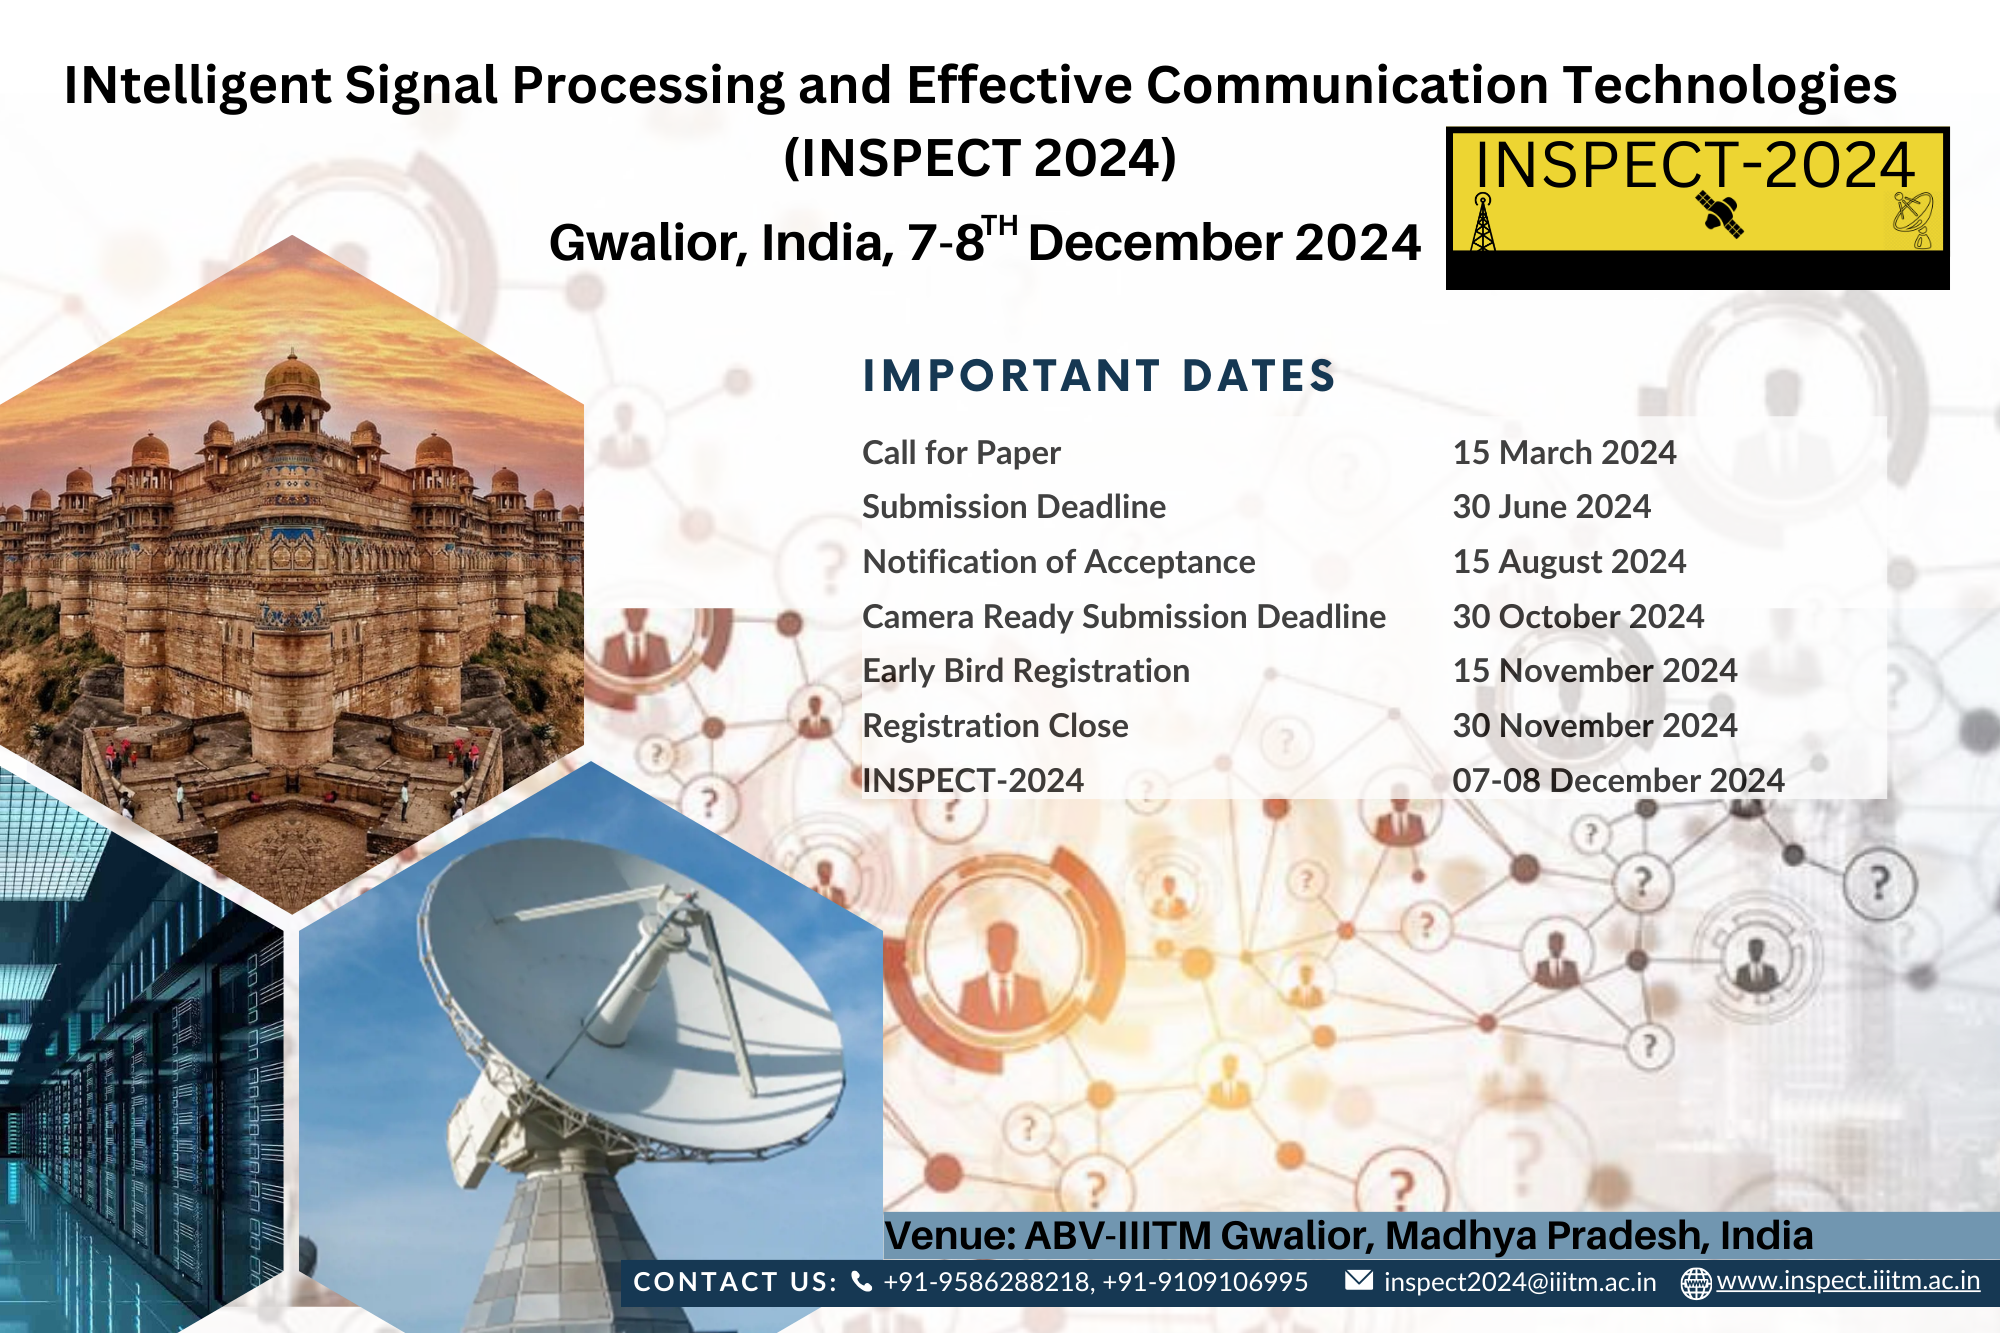
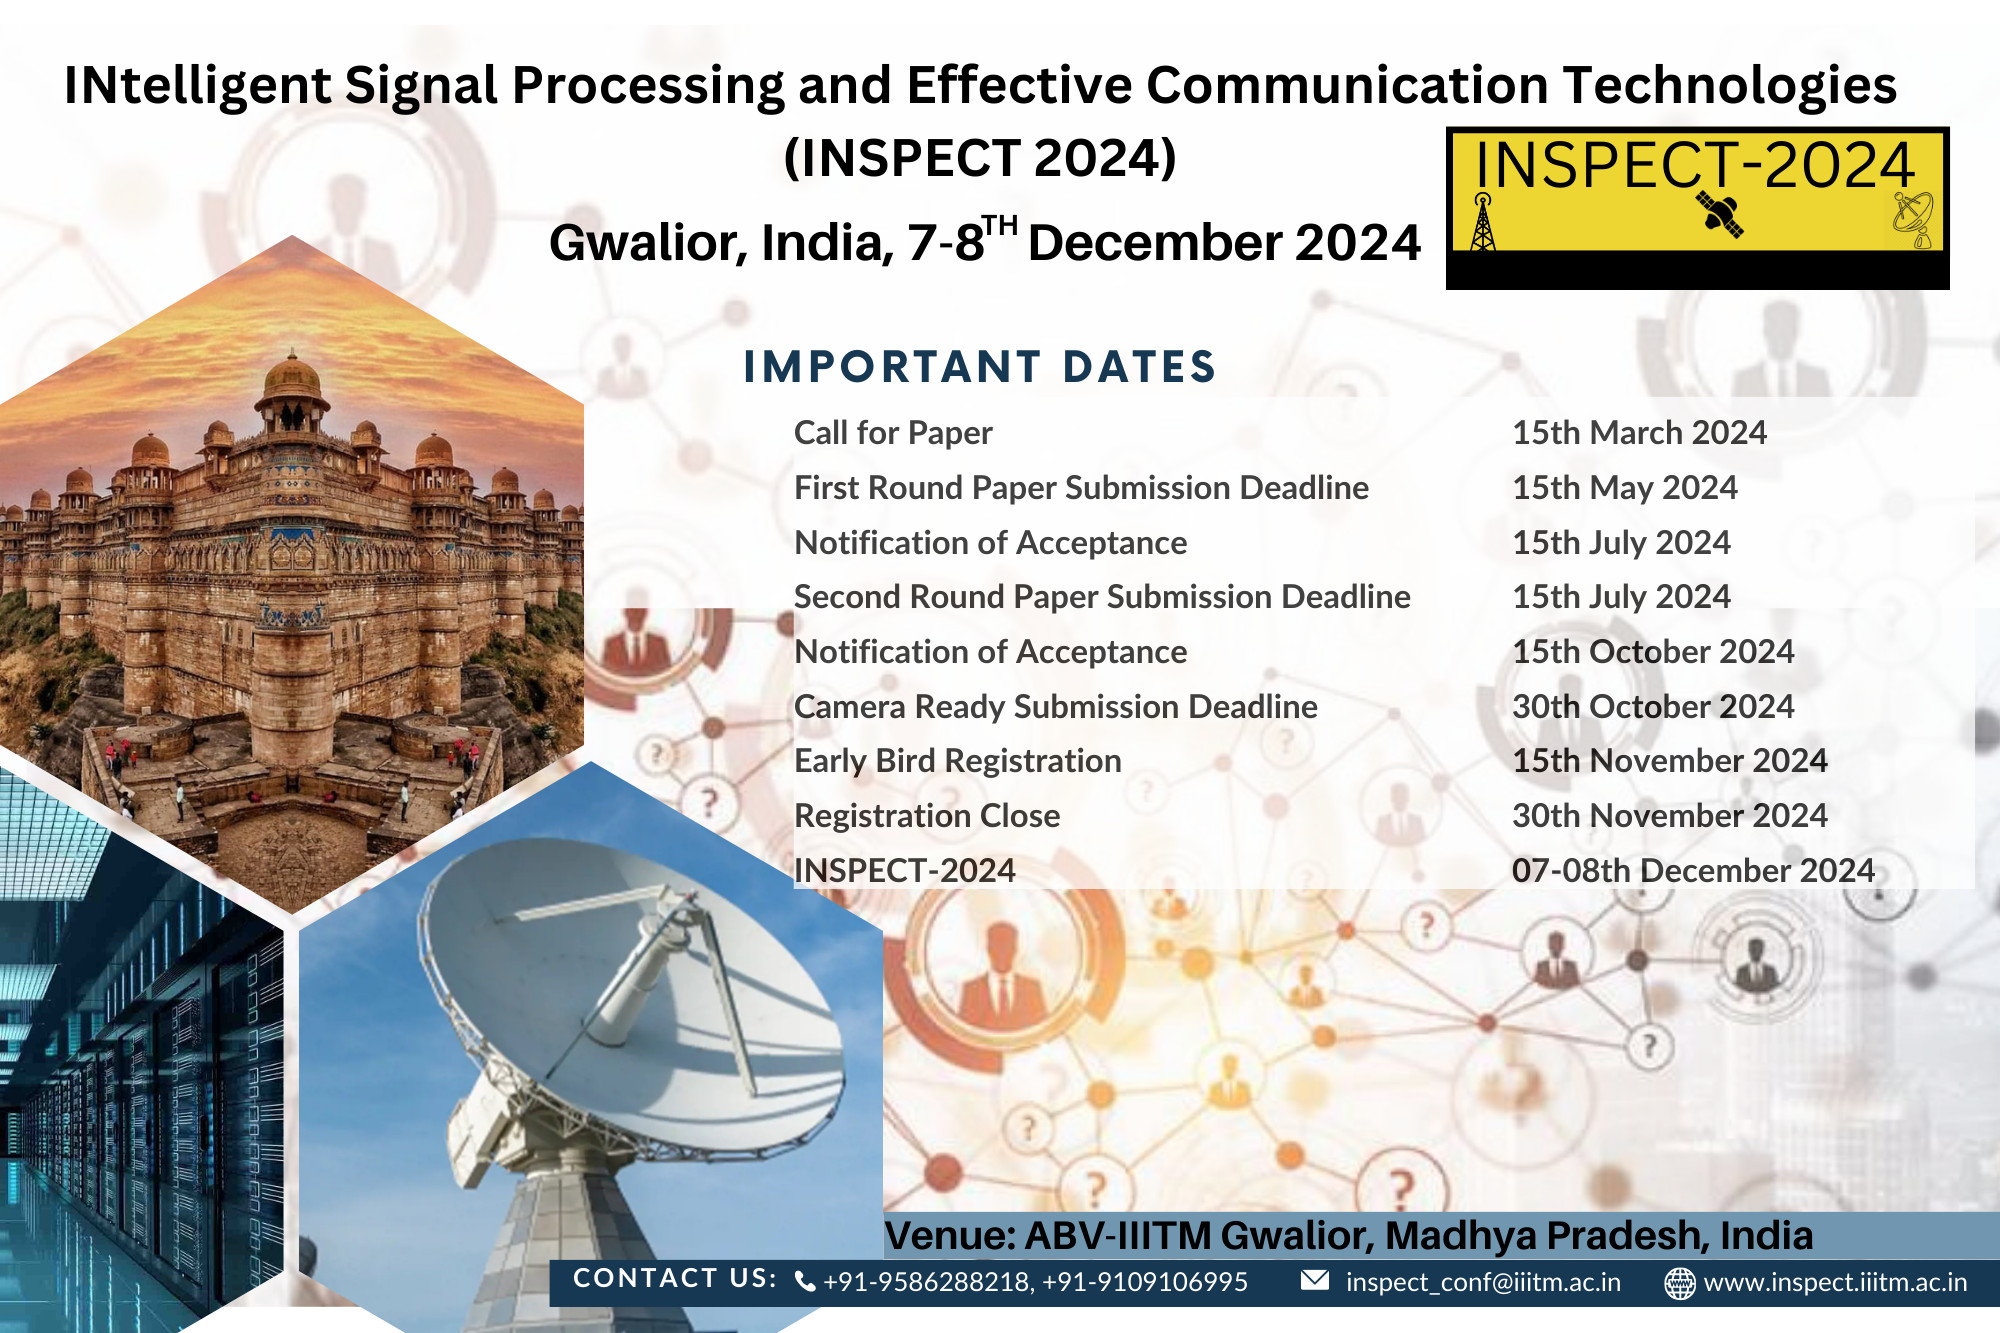
Flyer and email updated

diff --git a/src/components/Footer.jsx b/src/components/Footer.jsx
@@ -12,7 +12,7 @@ const Footer = () => (
       Atal Bihari Vajpayee Indian Institute of Information Technology and
       Management Gwalior <br />
       Morena Rd, IIITM Campus, Gwalior - 474015, Madhya Pradesh, India <br />
-      Email: inspect2024@iiitm.ac.in <br />
+      Email: inspect_conf@iiitm.ac.in <br />
       Ph. No.: +91-9586288218; +91-9109106995
     </p>
     <ul className="footer-links">

diff --git a/src/components/Submission.jsx b/src/components/Submission.jsx
@@ -123,7 +123,7 @@ const SubmissionComponent = () => {
         </p>
         <p>
           For any clarifications regarding the paper submission guidelines
-          please e-mail: inspect2024@iiitm.ac.in
+          please e-mail: inspect_conf@iiitm.ac.in
         </p>
       </div>
       <div style={{ marginTop: "60px" }}>
